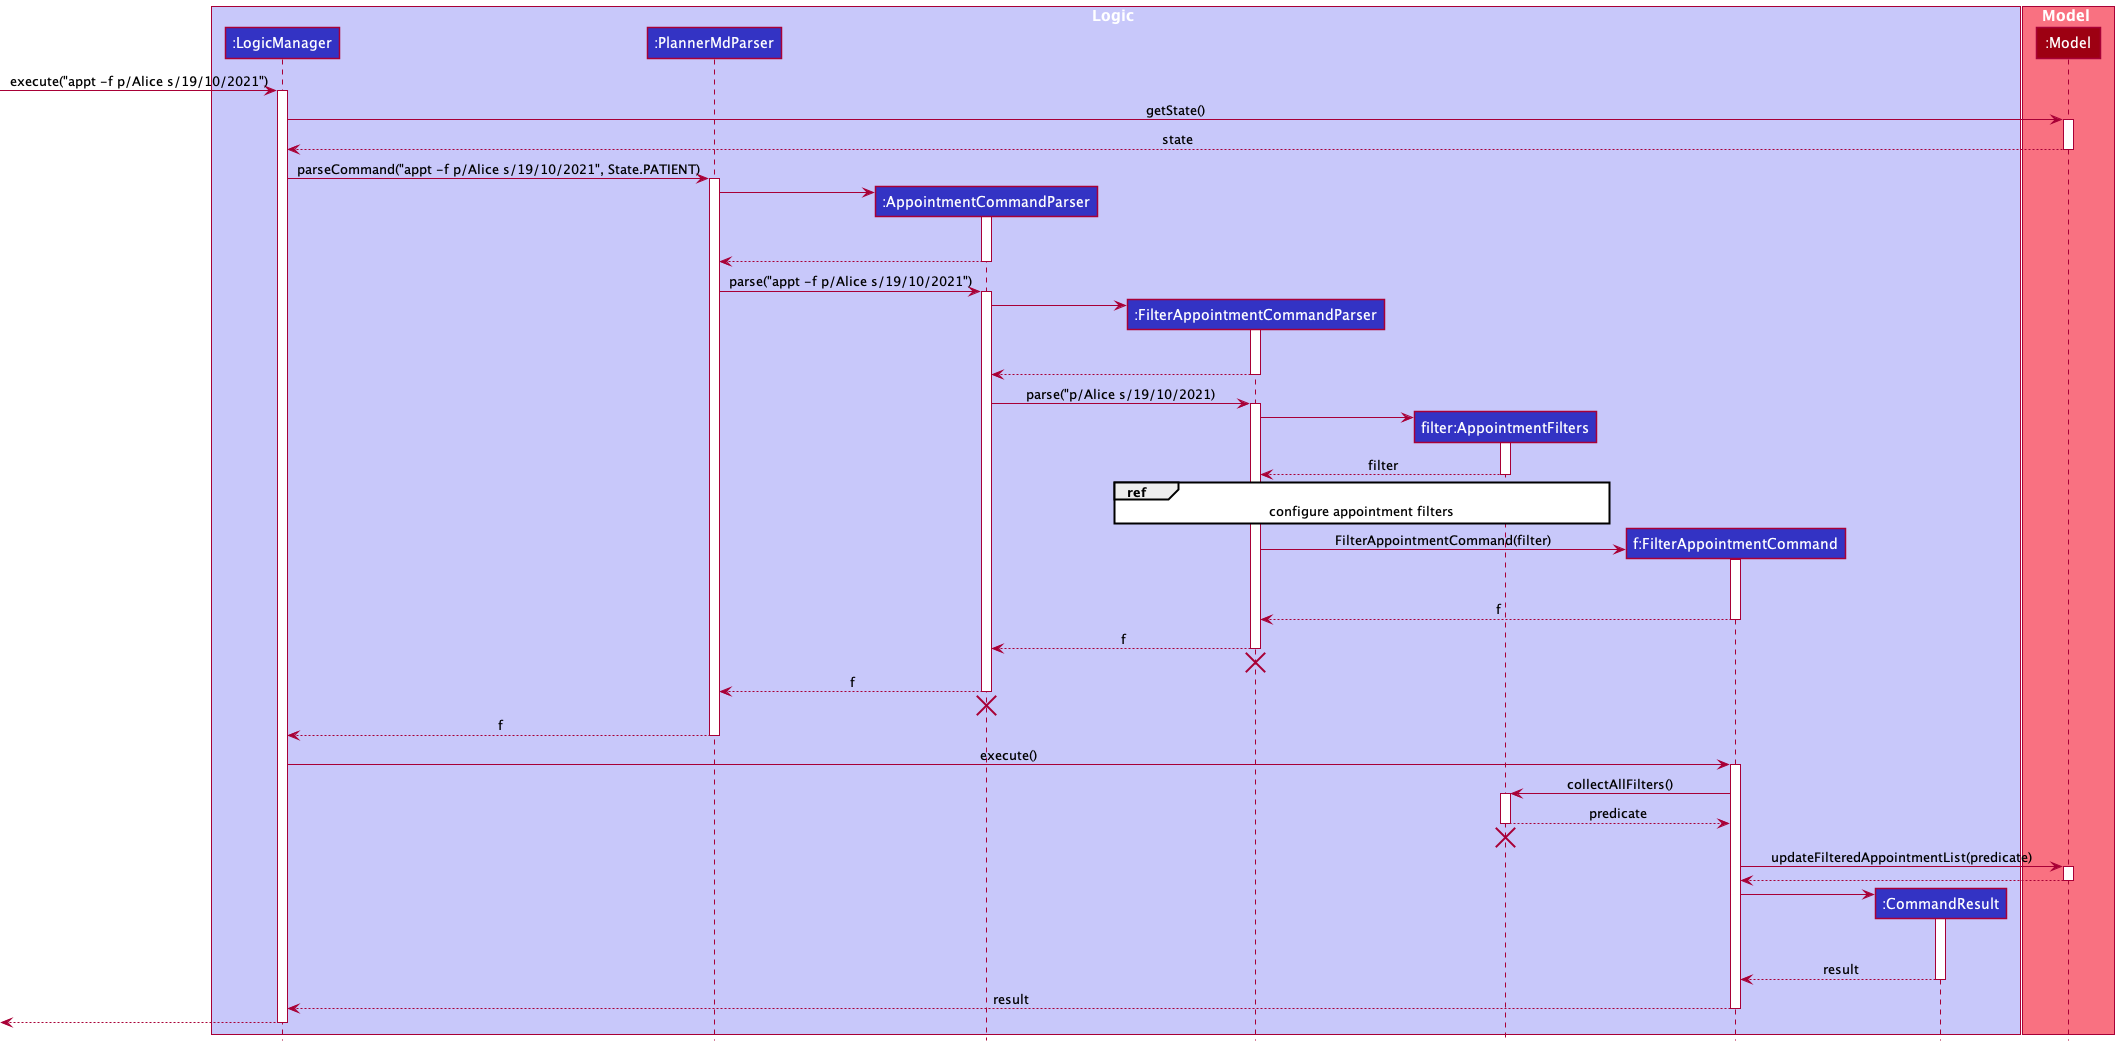
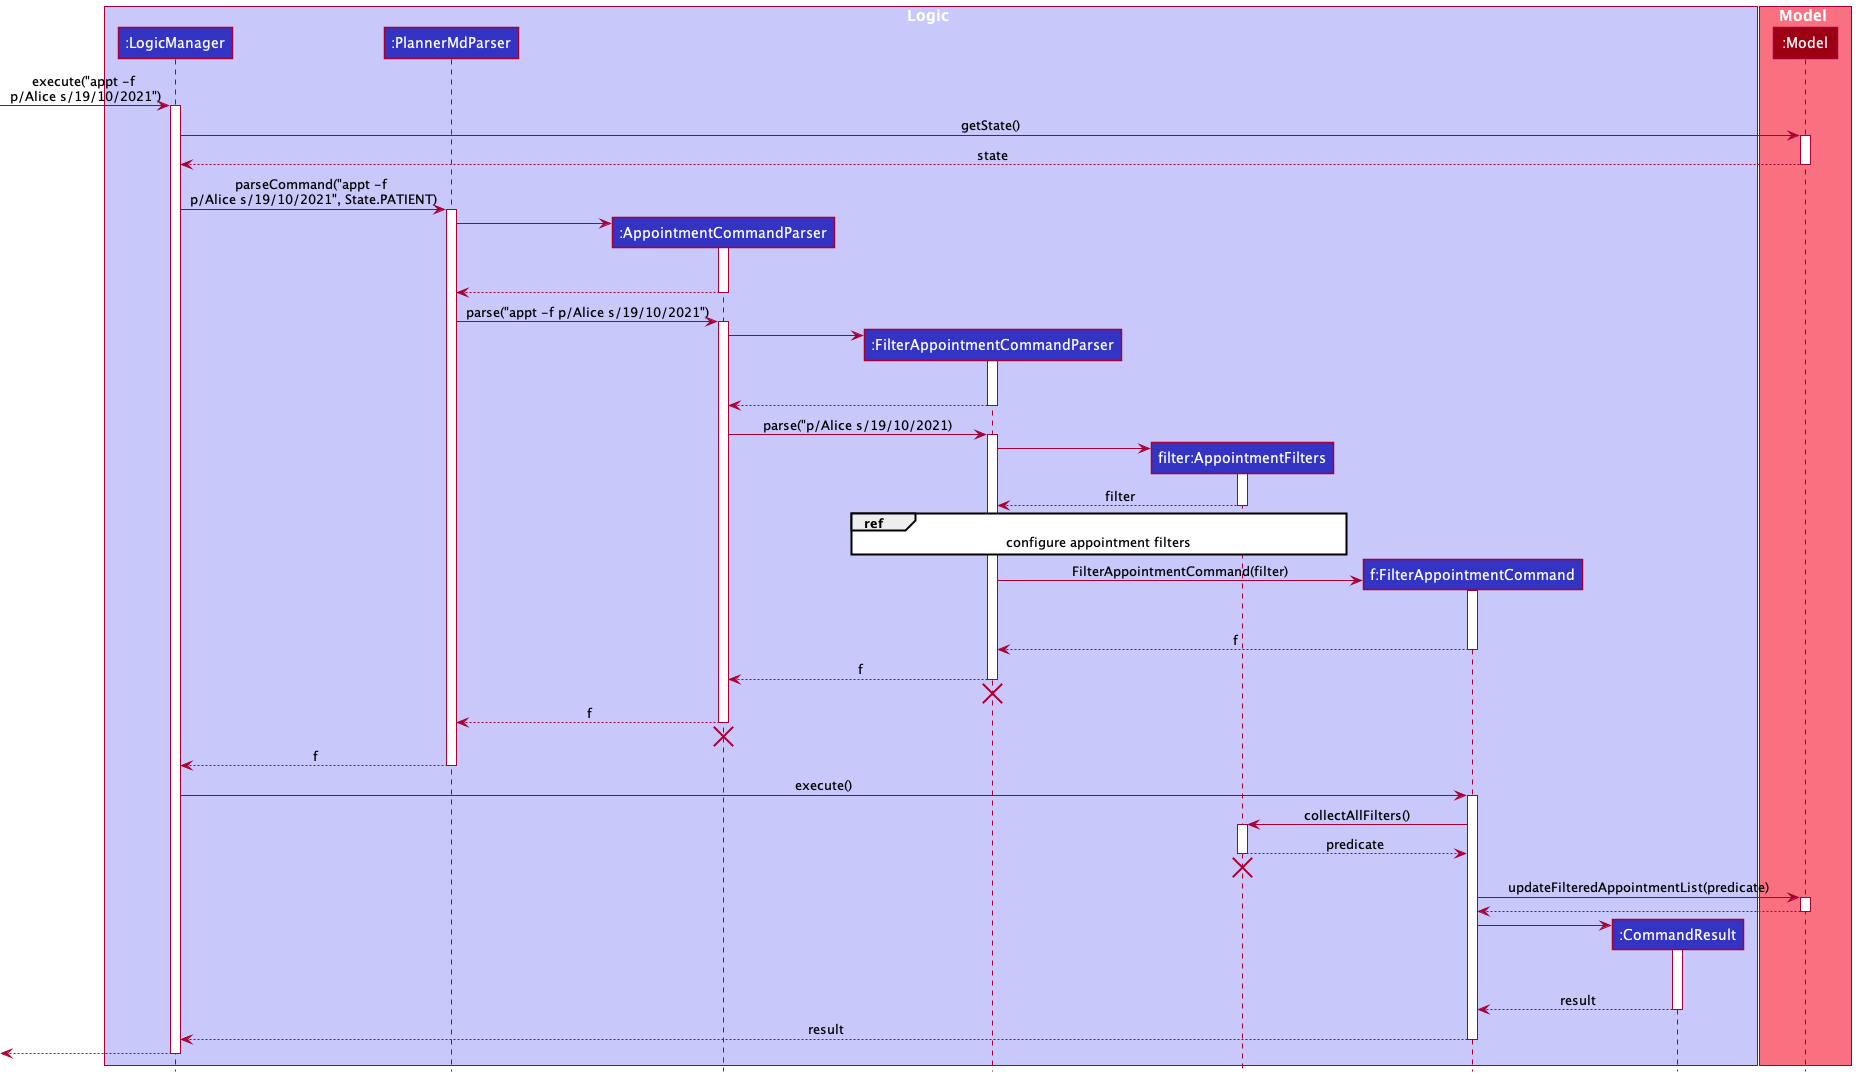
Made FilterAppointment sequence diagram larger

diff --git a/docs/DeveloperGuide.md b/docs/DeveloperGuide.md
@@ -254,7 +254,7 @@ After that, the filter is used to create a `FilterAppointmentCommand`. When exec
 
 Given below, is an example of a filter appointment command with the patient keywords and start date parameter provided.
 
-A clearer view of this sequence diagram can be found [here](images/AppointmentFilterSequenceDiagram.png).
+A clearer view of this sequence diagram can be found [here](https://github.com/AY2122S1-CS2103T-T11-3/tp/blob/master/docs/images/AppointmentFilterSequenceDiagram.png).
 
 ![FilterAppointmentCommand](images/AppointmentFilterSequenceDiagram.png)
 
